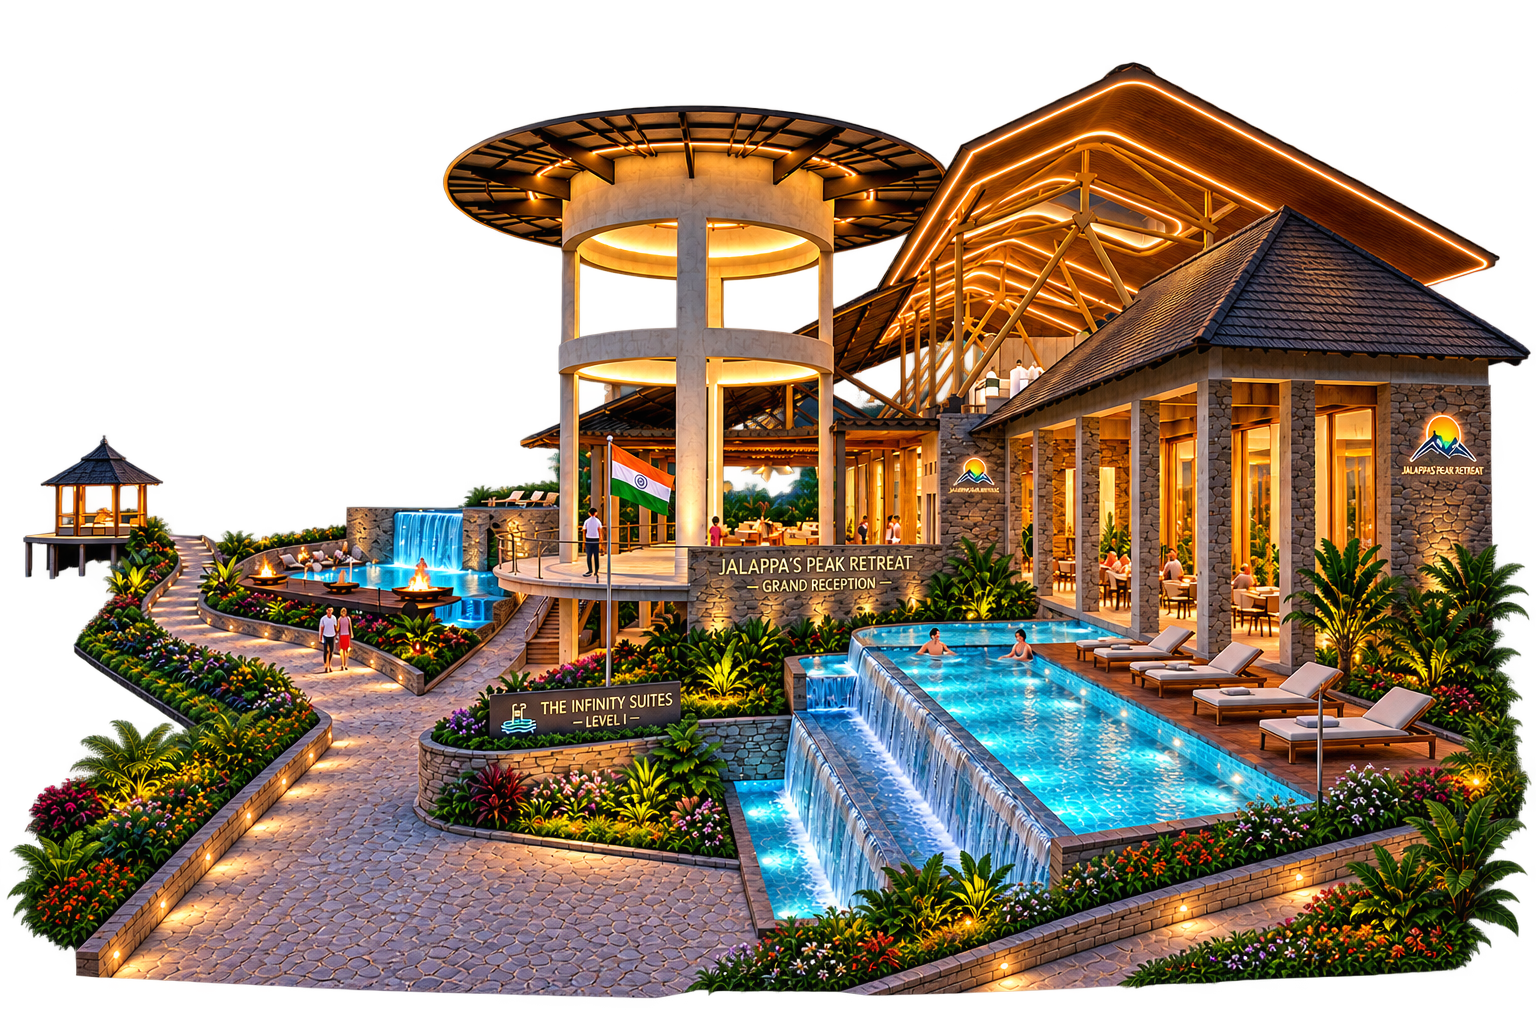
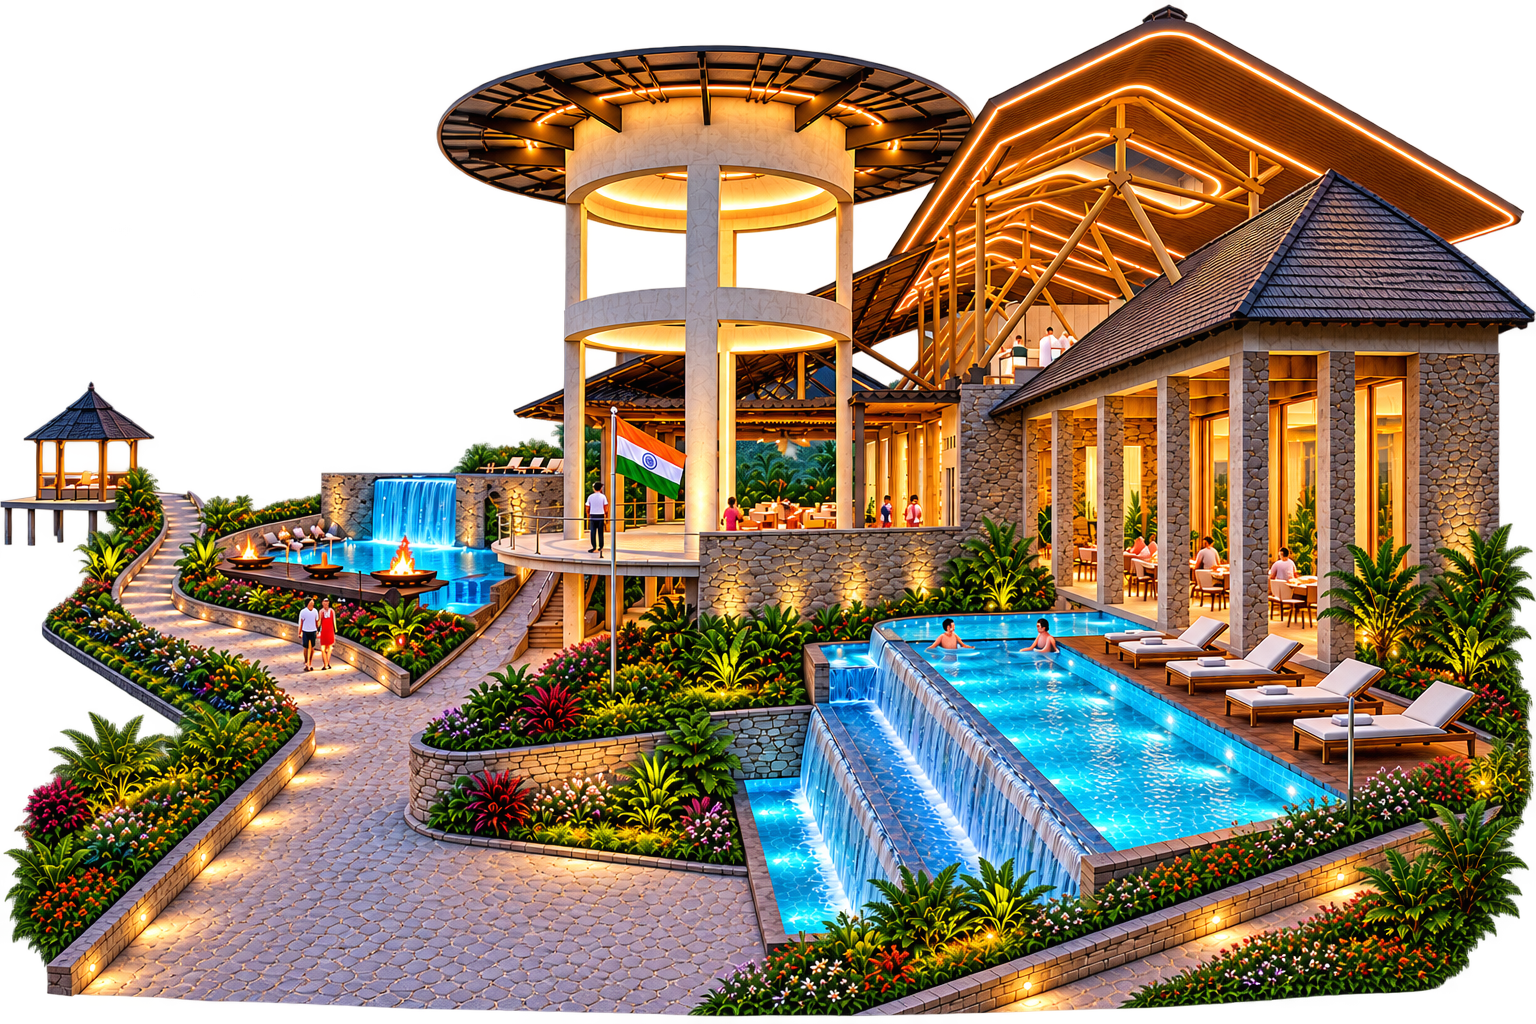
changes as per client need v2

diff --git a/src/pages/ServicesPage.tsx b/src/pages/ServicesPage.tsx
@@ -10,8 +10,8 @@ import { servicesData } from "@/data/services";
 
 const ServicesPage = () => {
   const { t } = useLanguage();
-  const [s0, s1, s2, s3, s4, s5] = servicesData;
-  const totalStr = "06";
+  const [s0, s1, s2, s3, s4] = servicesData;
+  const totalStr = "05";
 
   const [activeImages, setActiveImages] = useState<Record<string, string>>({});
   const articleRefs = useRef<Record<string, HTMLElement | null>>({});
@@ -98,7 +98,7 @@ const ServicesPage = () => {
         <section className="relative py-24 bg-secondary overflow-hidden">
           <div className="absolute inset-0">
             <img
-              src="/images/rr-hero-1.png"
+              src="images/APJ-Abdul-kalam-Block-UG-Boys-Hostel/image-2.png"
               alt="Construction project"
               className="w-full h-full object-cover opacity-20"
             />
@@ -252,12 +252,12 @@ const ServicesPage = () => {
               </div>
             </article>
 
-            {/* 4 & 5. Educational & Industrial (Staggered Duo) */}
+            {/* 4. Educational */}
             <div className="grid md:grid-cols-2 gap-12 md:gap-16 items-start pt-8">
-              {[s3, s4].map((service, i) => {
+              {[s3].map((service, i) => {
                 const globalIndex = i + 3;
                 return (
-                  <article key={service.id} className={`group ${i === 1 ? 'md:mt-32' : ''}`} ref={(el) => (articleRefs.current[service.id] = el)}>
+                  <article key={service.id} className="group" ref={(el) => (articleRefs.current[service.id] = el)}>
                     <div className="relative w-full aspect-[4/3] mb-12 md:mb-16">
                       <div className="absolute inset-0 overflow-hidden shadow-lg bg-rr-navy-deep/5">
                         {service.sectorHeroImage ? (
@@ -298,32 +298,32 @@ const ServicesPage = () => {
               })}
             </div>
 
-            {/* 6. Resorts & Hospitality (Panoramic Finale) */}
-            <article className="group pt-16" ref={(el) => (articleRefs.current[s5.id] = el)}>
+            {/* 5. Resorts & Hospitality (Panoramic Finale) */}
+            <article className="group pt-16" ref={(el) => (articleRefs.current[s4.id] = el)}>
               <div className="relative w-full aspect-[21/9] md:aspect-[24/9] mb-16 md:mb-20">
                 <div className="absolute inset-0 overflow-hidden shadow-2xl bg-rr-navy-deep/5">
-                  {s5.sectorHeroImage ? (
+                  {s4.sectorHeroImage ? (
                     <img 
-                      src={activeImages[s5.id] || s5.sectorHeroImage} 
-                      alt={s5.title} 
-                      onClick={() => handleImageToggle(s5.id, s5.sectorHeroImage, s5.sectorHeroImage)}
-                      className={`w-full h-full object-cover transition-transform duration-700 group-hover:scale-[1.02] ${(activeImages[s5.id] && activeImages[s5.id] !== s5.sectorHeroImage) ? 'cursor-pointer' : ''}`} 
+                      src={activeImages[s4.id] || s4.sectorHeroImage} 
+                      alt={s4.title} 
+                      onClick={() => handleImageToggle(s4.id, s4.sectorHeroImage, s4.sectorHeroImage)}
+                      className={`w-full h-full object-cover transition-transform duration-700 group-hover:scale-[1.02] ${(activeImages[s4.id] && activeImages[s4.id] !== s4.sectorHeroImage) ? 'cursor-pointer' : ''}`} 
                     />
                   ) : (
-                    <div className="w-full h-full flex items-center justify-center"><s5.icon className="w-20 h-20 text-rr-gold/50" /></div>
+                    <div className="w-full h-full flex items-center justify-center"><s4.icon className="w-20 h-20 text-rr-gold/50" /></div>
                   )}
                 </div>
-                {renderBadgeAndIcon(s5, 5, totalStr)}
-                {renderOverlayGallery(s5)}
+                {renderBadgeAndIcon(s4, 4, totalStr)}
+                {renderOverlayGallery(s4)}
               </div>
               <div className="max-w-4xl mx-auto text-center flex flex-col items-center space-y-6">
-                <s5.icon className="w-12 h-12 text-rr-gold mx-auto mb-2" />
+                <s4.icon className="w-12 h-12 text-rr-gold mx-auto mb-2" />
                 <h3 className="font-serif text-3xl md:text-5xl font-bold text-rr-navy-deep leading-tight">
-                  {s5.title}
+                  {s4.title}
                 </h3>
-                <p className="text-rr-navy-deep/80 text-lg leading-relaxed">{s5.description}</p>
+                <p className="text-rr-navy-deep/80 text-lg leading-relaxed">{s4.description}</p>
                 <div className="flex flex-wrap justify-center gap-4 pt-6">
-                  {s5.features.map((feature, i) => (
+                  {s4.features.map((feature, i) => (
                     <div key={i} className="flex items-center gap-2 text-sm text-rr-navy-deep/80 font-medium bg-rr-navy-deep/5 px-4 py-2 rounded-full border border-rr-gold/20">
                       <CheckCircle2 className="w-4 h-4 text-rr-gold shrink-0" />
                       <span>{feature}</span>

diff --git a/src/pages/AboutPage.tsx b/src/pages/AboutPage.tsx
@@ -71,7 +71,7 @@ const AboutPage = () => {
         <section className="relative py-24 bg-secondary overflow-hidden">
           <div className="absolute inset-0">
             <img
-              src="/images/rr-hero-1.png"
+              src="images/AHS-Building/image-2.png"
               alt="Construction site"
               className="w-full h-full object-cover opacity-20"
             />
@@ -223,11 +223,11 @@ const AboutPage = () => {
                   engineered for performance, built for permanence
                 </h2>
                 <p className="text-muted-foreground text-base md:text-lg leading-relaxed mb-8">
-                  With 40+ years of rich experience, we don't just construct buildings - we deliver infrastructure that stands the test of time. Every project reflects our commitment to quality, safety, and timely execution.
+                  With 25+ years of rich experience, we don't just construct buildings - we deliver infrastructure that stands the test of time. Every project reflects our commitment to quality, safety, and timely execution.
                 </p>
                 <div className="space-y-4">
                   {[
-                    "40+ years of rich industry experience",
+                    "25+ years of rich industry experience",
                     "500+ completed projects across 6 sectors",
                     "5M+ sq. ft. of constructed excellence",
                     "100+ skilled civil engineers and supervisors",
@@ -251,7 +251,7 @@ const AboutPage = () => {
               <div className="relative">
                 <div className="aspect-[4/3] rounded-xl overflow-hidden shadow-lg">
                   <img
-                    src="/images/rr-hero-2-desktop.png"
+                    src="/images/AHS-Building/image-2.png"
                     alt="RR Constructions project"
                     className="w-full h-full object-cover"
                     loading="lazy"
@@ -260,7 +260,7 @@ const AboutPage = () => {
                 <div className="absolute bg-white -bottom-6 -left-6 bg-card border border-rr-gold/30 rounded-xl p-6 shadow-lg max-w-xs">
                   <div className="flex items-center gap-3 mb-2">
                     <Award className="w-6 h-6 text-rr-gold" />
-                    <span className="font-serif text-lg font-bold text-foreground">Trusted Since 1980s</span>
+                    <span className="font-serif text-lg font-bold text-foreground">Trusted Since 2000s</span>
                   </div>
                   <p className="text-muted-foreground text-xs leading-relaxed">
                     Four decades of delivering landmark infrastructure across Karnataka with uncompromised quality and client trust.

diff --git a/src/data/services.ts b/src/data/services.ts
@@ -52,16 +52,16 @@ export const servicesData: ServiceSector[] = [
     sectorHeroImage: "/images/University-Building/image-1.png",
     projectThumbnails: ["/images/University-Building/image-2.png", "/images/University-Building/image-3.png", "/images/APJ-Abdul-kalam-Block-UG-Boys-Hostel/image-1.png"],
   },
-  {
-    id: "5",
-    title: "Industrial Buildings",
-    icon: Factory,
-    description: "Design and construction of industrial buildings including manufacturing units, warehouses, and other industrial facilities with high functionality.",
-    features: ["Heavy Duty Structures", "Warehouse Logistics Units", "High Bay Storage", "Ventilation Systems", "Fire Retardant Materials", "Scalable Designs"],
-    badge: "Industrial Facilities",
-    sectorHeroImage: "/images/rr-hero-3.png",
-    projectThumbnails: ["/images/rr-hero-1-desktop.png", "/images/rr-hero-1.png"],
-  },
+  // {
+  //   id: "5",
+  //   title: "Industrial Buildings",
+  //   icon: Factory,
+  //   description: "Design and construction of industrial buildings including manufacturing units, warehouses, and other industrial facilities with high functionality.",
+  //   features: ["Heavy Duty Structures", "Warehouse Logistics Units", "High Bay Storage", "Ventilation Systems", "Fire Retardant Materials", "Scalable Designs"],
+  //   badge: "Industrial Facilities",
+  //   sectorHeroImage: "/images/rr-hero-3.png",
+  //   projectThumbnails: ["/images/rr-hero-1-desktop.png", "/images/rr-hero-1.png"],
+  // },
   {
     id: "6",
     title: "Resorts & Hospitality",
@@ -71,5 +71,5 @@ export const servicesData: ServiceSector[] = [
     badge: "Hospitality Development",
     sectorHeroImage: "/images/mudigere-Resort-Project/image-1.png",
     projectThumbnails: ["/images/mudigere-Resort-Project/image-2.png", "/images/mudigere-Resort-Project/image-3.png", "/images/mudigere-Resort-Project/image-4.png"],
-  },
+  }
 ];

diff --git a/src/pages/ContactPage.tsx b/src/pages/ContactPage.tsx
@@ -32,7 +32,7 @@ const ContactPage = () => {
       id: "1",
       icon: MapPin,
       title: "Registered Office",
-      content: "No.216/1, 1st Floor, 5th Main, 4th Cross Road (Near K.E.R. Office), Ganganagar, Bangalore-560032",
+      content: "No.216/1, 1st Floor, 5th Main, 4th Cross Road, Ganganagar, Bangalore-560032",
     },
     {
       id: "2",
@@ -122,7 +122,7 @@ const ContactPage = () => {
         <section className="relative py-24 bg-secondary overflow-hidden">
           <div className="absolute inset-0">
             <img
-              src="/images/rr-hero-2-desktop.png"
+              src="images/mudigere-Resort-Project/image-5.png"
               alt="Construction project"
               className="w-full h-full object-cover opacity-20"
             />
@@ -225,7 +225,7 @@ const ContactPage = () => {
                         onChange={handleChange}
                         required
                         className="w-full px-3 py-2 bg-secondary border border-border rounded-lg text-foreground text-sm placeholder:text-muted-foreground focus:ring-2 focus:ring-gold outline-none transition-all"
-                        placeholder="e.g. Ritesh Sinha"
+                        placeholder="Enter your full name"
                       />
                     </div>
                     <div>
@@ -257,7 +257,7 @@ const ContactPage = () => {
                         value={formData.phone}
                         onChange={handleChange}
                         className="w-full px-3 py-2 bg-secondary border border-border rounded-lg text-foreground text-sm placeholder:text-muted-foreground focus:ring-2 focus:ring-gold outline-none transition-all"
-                        placeholder="+91 98450 78828"
+                        placeholder="Enter your phone number"
                       />
                     </div>
                     <div>

diff --git a/src/pages/Index.tsx b/src/pages/Index.tsx
@@ -35,7 +35,7 @@ const Index = () => {
             "description": "Professionally managed construction and infrastructure development company with 40+ years of experience.",
             "address": {
               "@type": "PostalAddress",
-              "streetAddress": "No.216/1, 1st Floor, 5th Main, 4th Cross Road (Near K.E.R. Office), Ganganagar",
+              "streetAddress": "No.216/1, 1st Floor, 5th Main, 4th Cross Road, Ganganagar",
               "addressLocality": "Bangalore",
               "addressRegion": "Karnataka",
               "postalCode": "560032",

diff --git a/src/pages/PortfolioPage.tsx b/src/pages/PortfolioPage.tsx
@@ -45,7 +45,7 @@ const PortfolioPage = () => {
         <section className="relative py-24 bg-secondary overflow-hidden">
           <div className="absolute inset-0">
             <picture>
-              <source media="(min-width: 768px)" srcSet="/images/rr-hero-2-desktop.png" />
+              <source media="(min-width: 768px)" srcSet="images/mudigere-Resort-Project/image-5.png" />
               <img
                 src="/images/rr-hero-3.png"
                 alt="Construction project"

diff --git a/src/components/Footer.tsx b/src/components/Footer.tsx
@@ -113,7 +113,7 @@ const Footer = () => {
                 <MapPin className="w-5 h-5 text-rr-gold shrink-0 mt-0.5" />
                 <span className="text-rr-cream/60 text-sm">
                   No.216/1, 1st Floor, 5th Main,<br />
-                  4th Cross Road (Near K.E.R. Office)<br />
+                  4th Cross Road<br />
                   Ganganagar, Bangalore-560032
                 </span>
               </li>

diff --git a/src/components/Contact.tsx b/src/components/Contact.tsx
@@ -15,7 +15,7 @@ const contactInfo = [
   {
     icon: MapPin,
     title: "Registered Office",
-    content: "No.216/1, 1st Floor, 5th Main,\n4th Cross Road (Near K.E.R. Office)\nGanganagar, Bangalore-560032",
+    content: "No.216/1, 1st Floor, 5th Main,\n4th Cross Road\nGanganagar, Bangalore-560032",
   },
   {
     icon: Phone,
